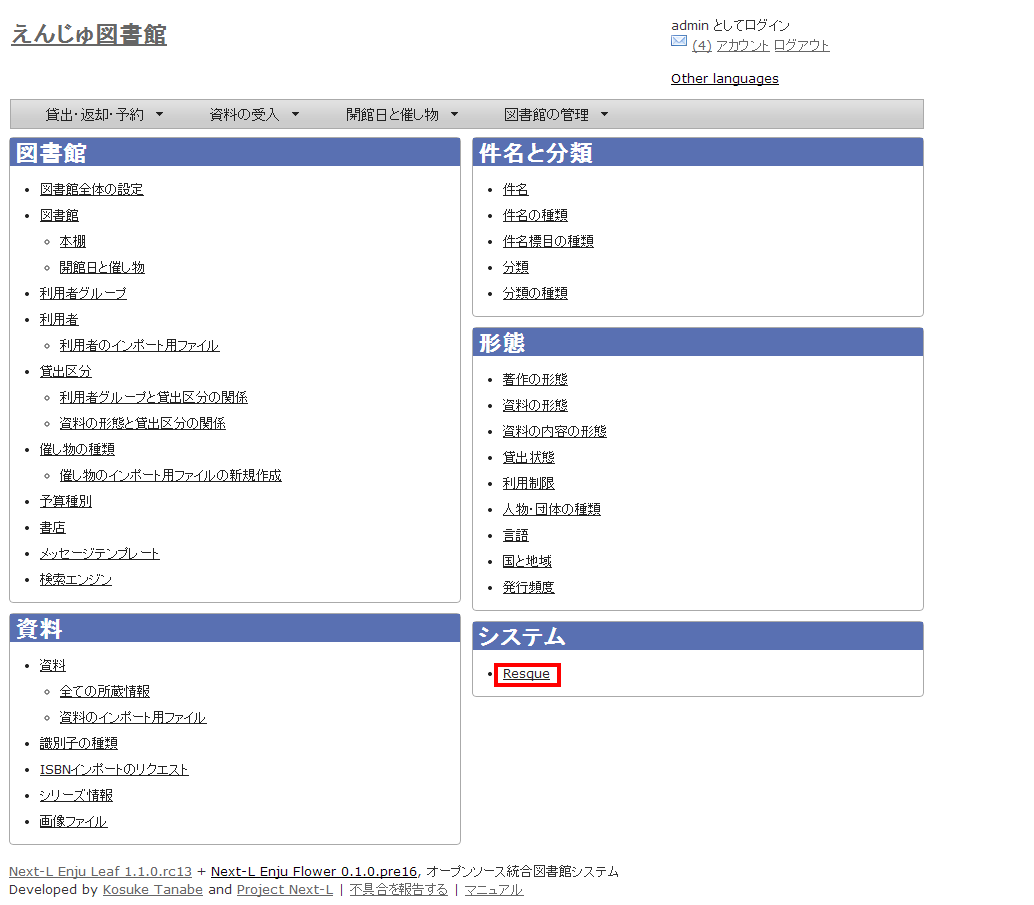
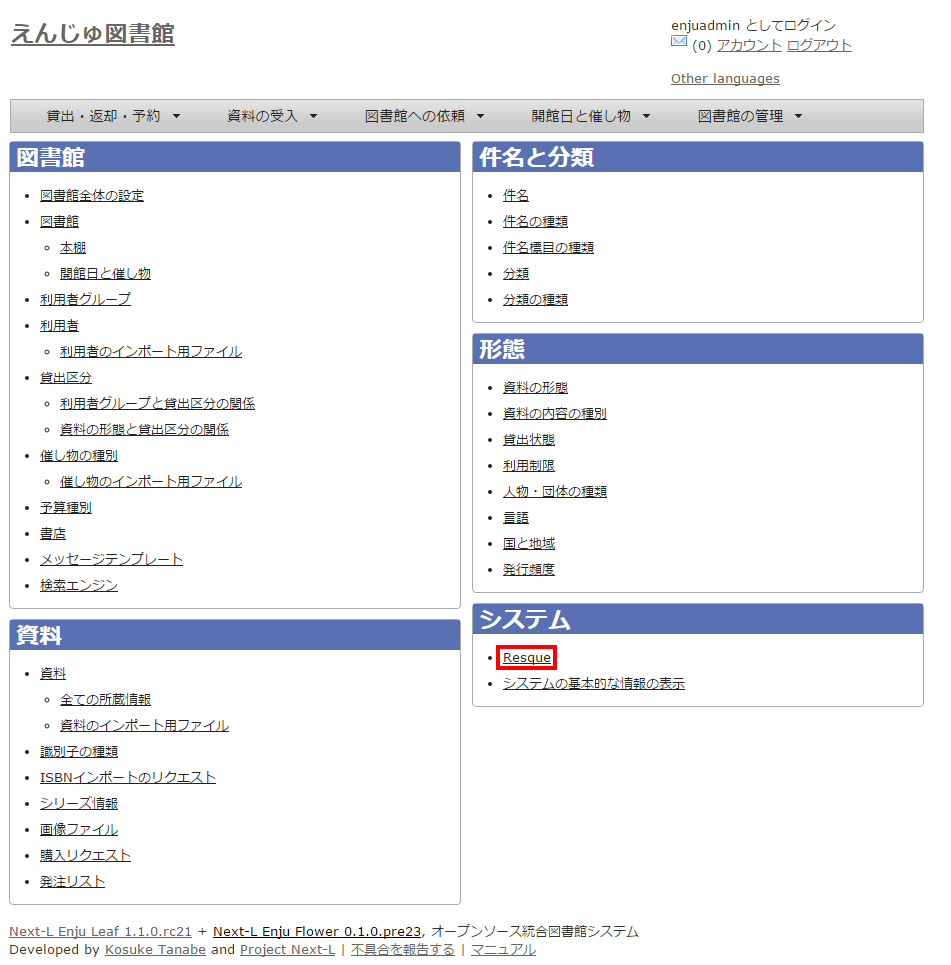
初期設定マニュアル 7-2 Resqueのスクリーンショットの差し替え、説明の追記。

Changed region(s): [[0.0, 0.0, 0.9758, 0.9282], [0.0, 0.9591, 0.6709, 1.0], [0.0, 0.0, 0.183, 0.0619]]

diff --git a/enju_setup_7.md b/enju_setup_7.md
@@ -44,11 +44,19 @@ group: enju_setup
 
 #### 2. システムの[Resque]リンクをたどります。
 
-![システムの設定](assets/images/image_initial_resque.png)
+![Resqueリンク](assets/images/image_initial_resque.png)
 
-#### 3. Resque の画面で非同期処理の状態を確認できます。
+#### 3. Resque の画面で非同期処理の状態を確認できます。エラーを確認するには[failed]リンクをたどります。
 
-![システムの設定](assets/images/image_initial_resque2.png)
+![failedリンク](assets/images/image_initial_resque2.png)
+
+#### 4. 詳細なエラーを確認するために、閲覧したいエラーのリンクをたどります。
+
+![詳細なエラーへのリンク](assets/images/image_initial_resque_3.png)
+
+#### 5. 詳細なエラーが表示されます。
+
+![詳細なエラー](assets/images/image_initial_resque_4.png)
 
 7-3 運用マニュアルにおいて説明する機能 {#section7-3}
 ----------------------------------------------------
